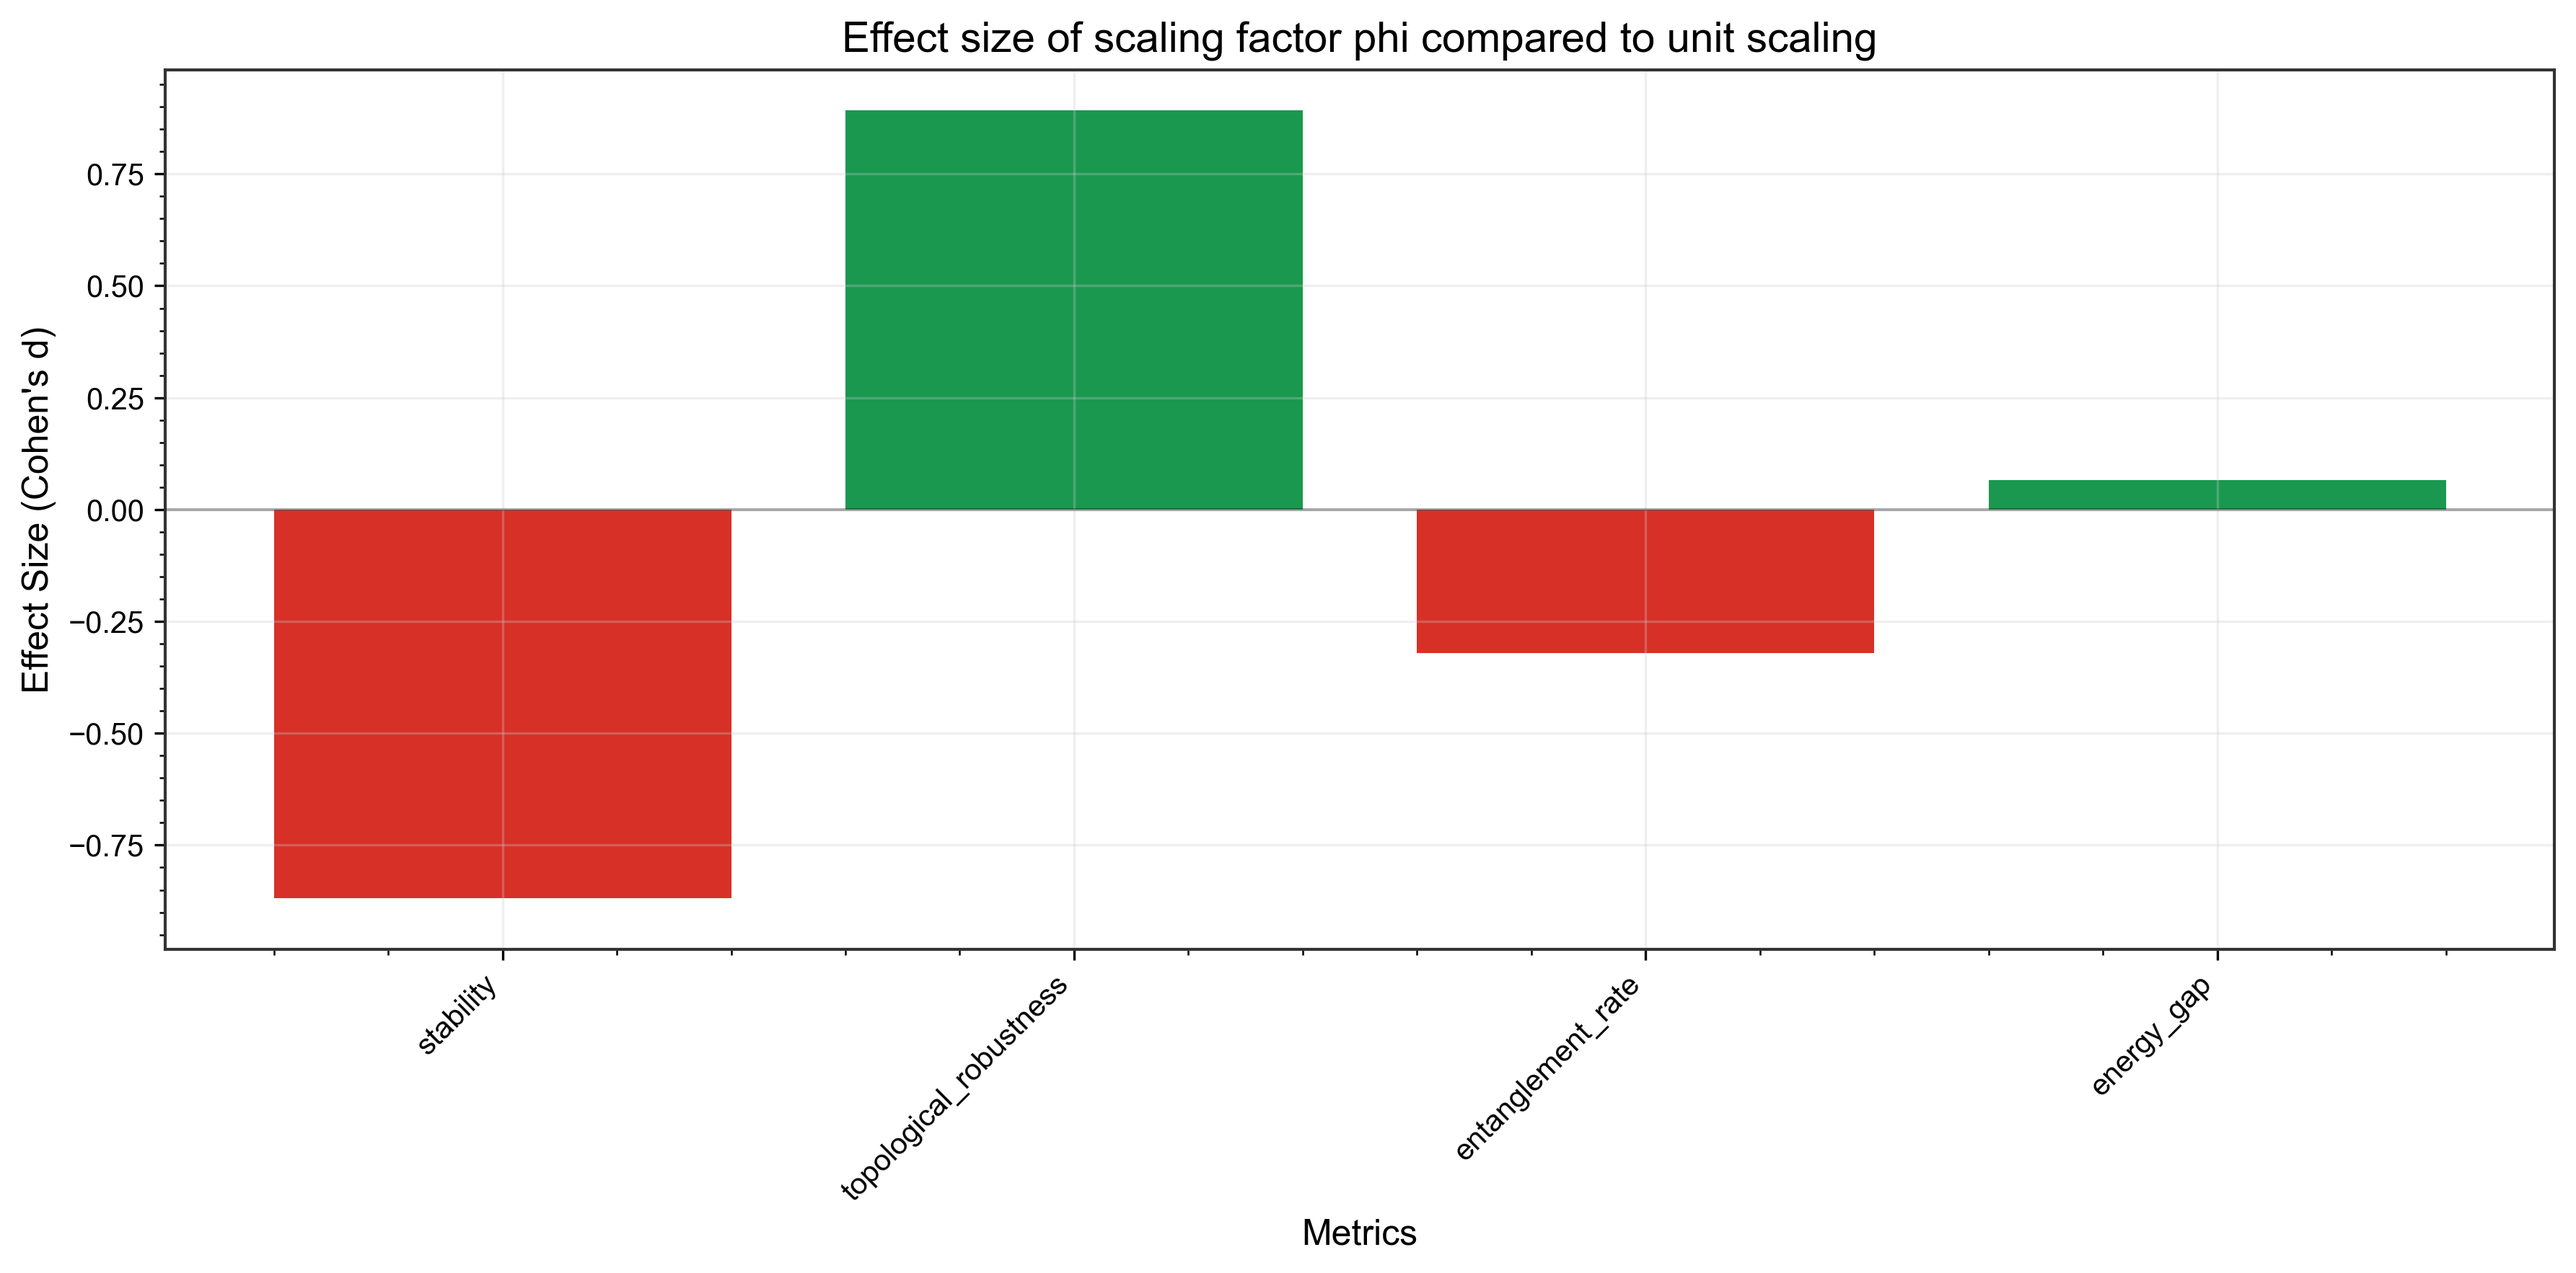
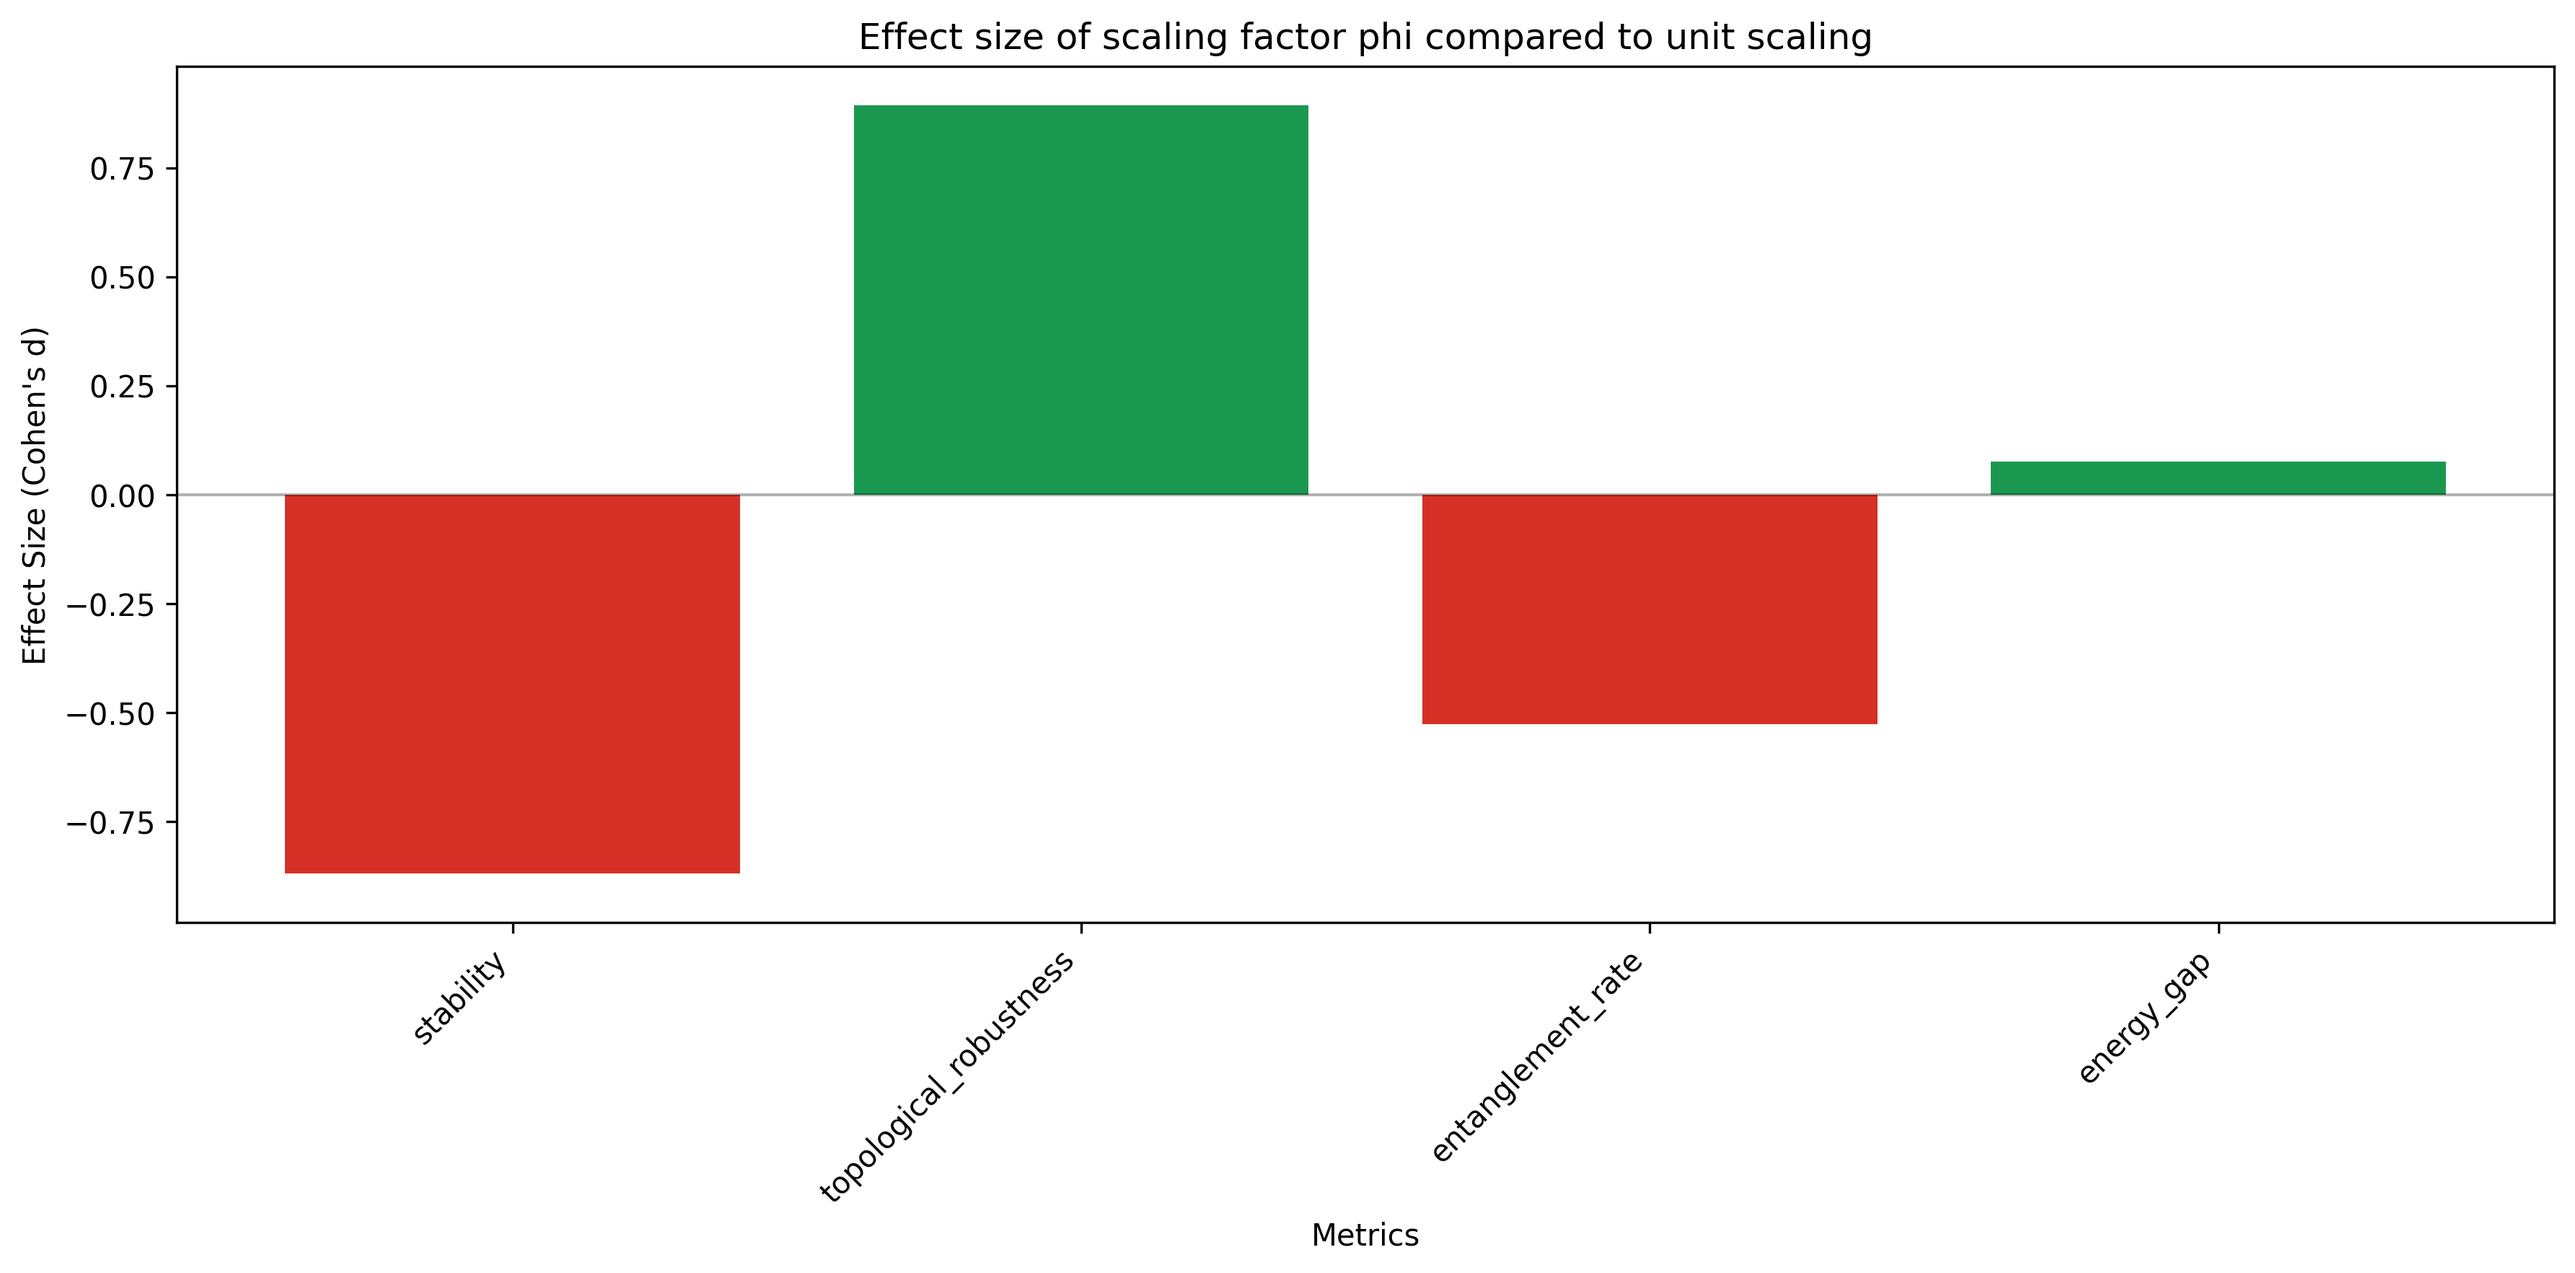
fixed phi_comparison_boxplots lby making new file

diff --git a/paper_graphs/statistical_validation.html b/paper_graphs/statistical_validation.html
@@ -48,12 +48,12 @@
   <tbody>
     <tr>
       <td>entanglement_rate</td>
-      <td>6.023449e-02</td>
+      <td>5.371425e-03</td>
       <td>NaN</td>
-      <td>-0.320922</td>
-      <td>small</td>
-      <td>False</td>
-      <td>False</td>
+      <td>-0.526294</td>
+      <td>medium</td>
+      <td>True</td>
+      <td>True</td>
     </tr>
     <tr>
       <td>topological_robustness</td>
@@ -75,9 +75,9 @@
     </tr>
     <tr>
       <td>energy_gap</td>
-      <td>3.647876e-01</td>
+      <td>2.947614e-01</td>
       <td>NaN</td>
-      <td>0.065489</td>
+      <td>0.075183</td>
       <td>negligible</td>
       <td>False</td>
       <td>False</td>

diff --git a/generate_paper_graphs.py b/generate_paper_graphs.py
@@ -2279,11 +2279,14 @@ def generate_statistical_validation_graphs(output_dir):
     plt.savefig(output_dir / "effect_size_comparison.png", dpi=300, bbox_inches='tight')
     plt.close()
     
-    # Create comparison of means plot
+    # Create boxplot comparison between different scaling factors
     plt.figure(figsize=(14, 8))
     
     # For each metric, plot phi vs average of others
     for i, metric_name in enumerate(sorted_metrics):
+        if metric_name == 'fractal_dimension':
+            continue  # Skip fractal dimension as requested
+            
         plt.subplot(3, 2, i+1 if i < 5 else 5)
         
         # Extract data
@@ -2294,22 +2297,24 @@ def generate_statistical_validation_graphs(output_dir):
                 other_data.extend(metrics_data[metric_name][factor])
         other_data = np.array(other_data)
         
-        # Create boxplot
+        # Create boxplot with consistent coloring
         bp = plt.boxplot([phi_data, other_data], labels=['φ', 'Other'], patch_artist=True)
         
-        # Color boxes based on significance
-        if results['individual_results'][metric_name]['significant_after_correction']:
-            bp['boxes'][0].set_facecolor('#c6dbef')
-            plt.title(f"{metric_name} (p={results['individual_results'][metric_name]['adjusted_p_value']:.4f})*")
-        else:
-            bp['boxes'][0].set_facecolor('#f0f0f0')
-            plt.title(f"{metric_name} (p={results['individual_results'][metric_name]['adjusted_p_value']:.4f})")
+        # Use consistent neutral coloring regardless of significance
+        bp['boxes'][0].set_facecolor('#d9d9d9')  # Light gray for all boxes
+        bp['boxes'][1].set_facecolor('#d9d9d9')
+        
+        # Title includes p-value but without asterisk to avoid implying significance
+        plt.title(f"{metric_name} (adjusted p={results['individual_results'][metric_name]['adjusted_p_value']:.4f})")
             
-        # Add individual points
+        # Add individual data points with neutral colors
         plt.scatter(np.random.normal(1, 0.1, len(phi_data)), phi_data, alpha=0.4, 
-                   color='blue', edgecolor='none')
+                   color='dimgray', edgecolor='none')
         plt.scatter(np.random.normal(2, 0.1, len(other_data)), other_data, alpha=0.2, 
-                   color='gray', edgecolor='none')
+                   color='dimgray', edgecolor='none')
+                   
+        # Add y-label for clarity
+        plt.ylabel('Value')
     
     plt.tight_layout()
     plt.savefig(output_dir / "phi_comparison_boxplots.png", dpi=300, bbox_inches='tight')
